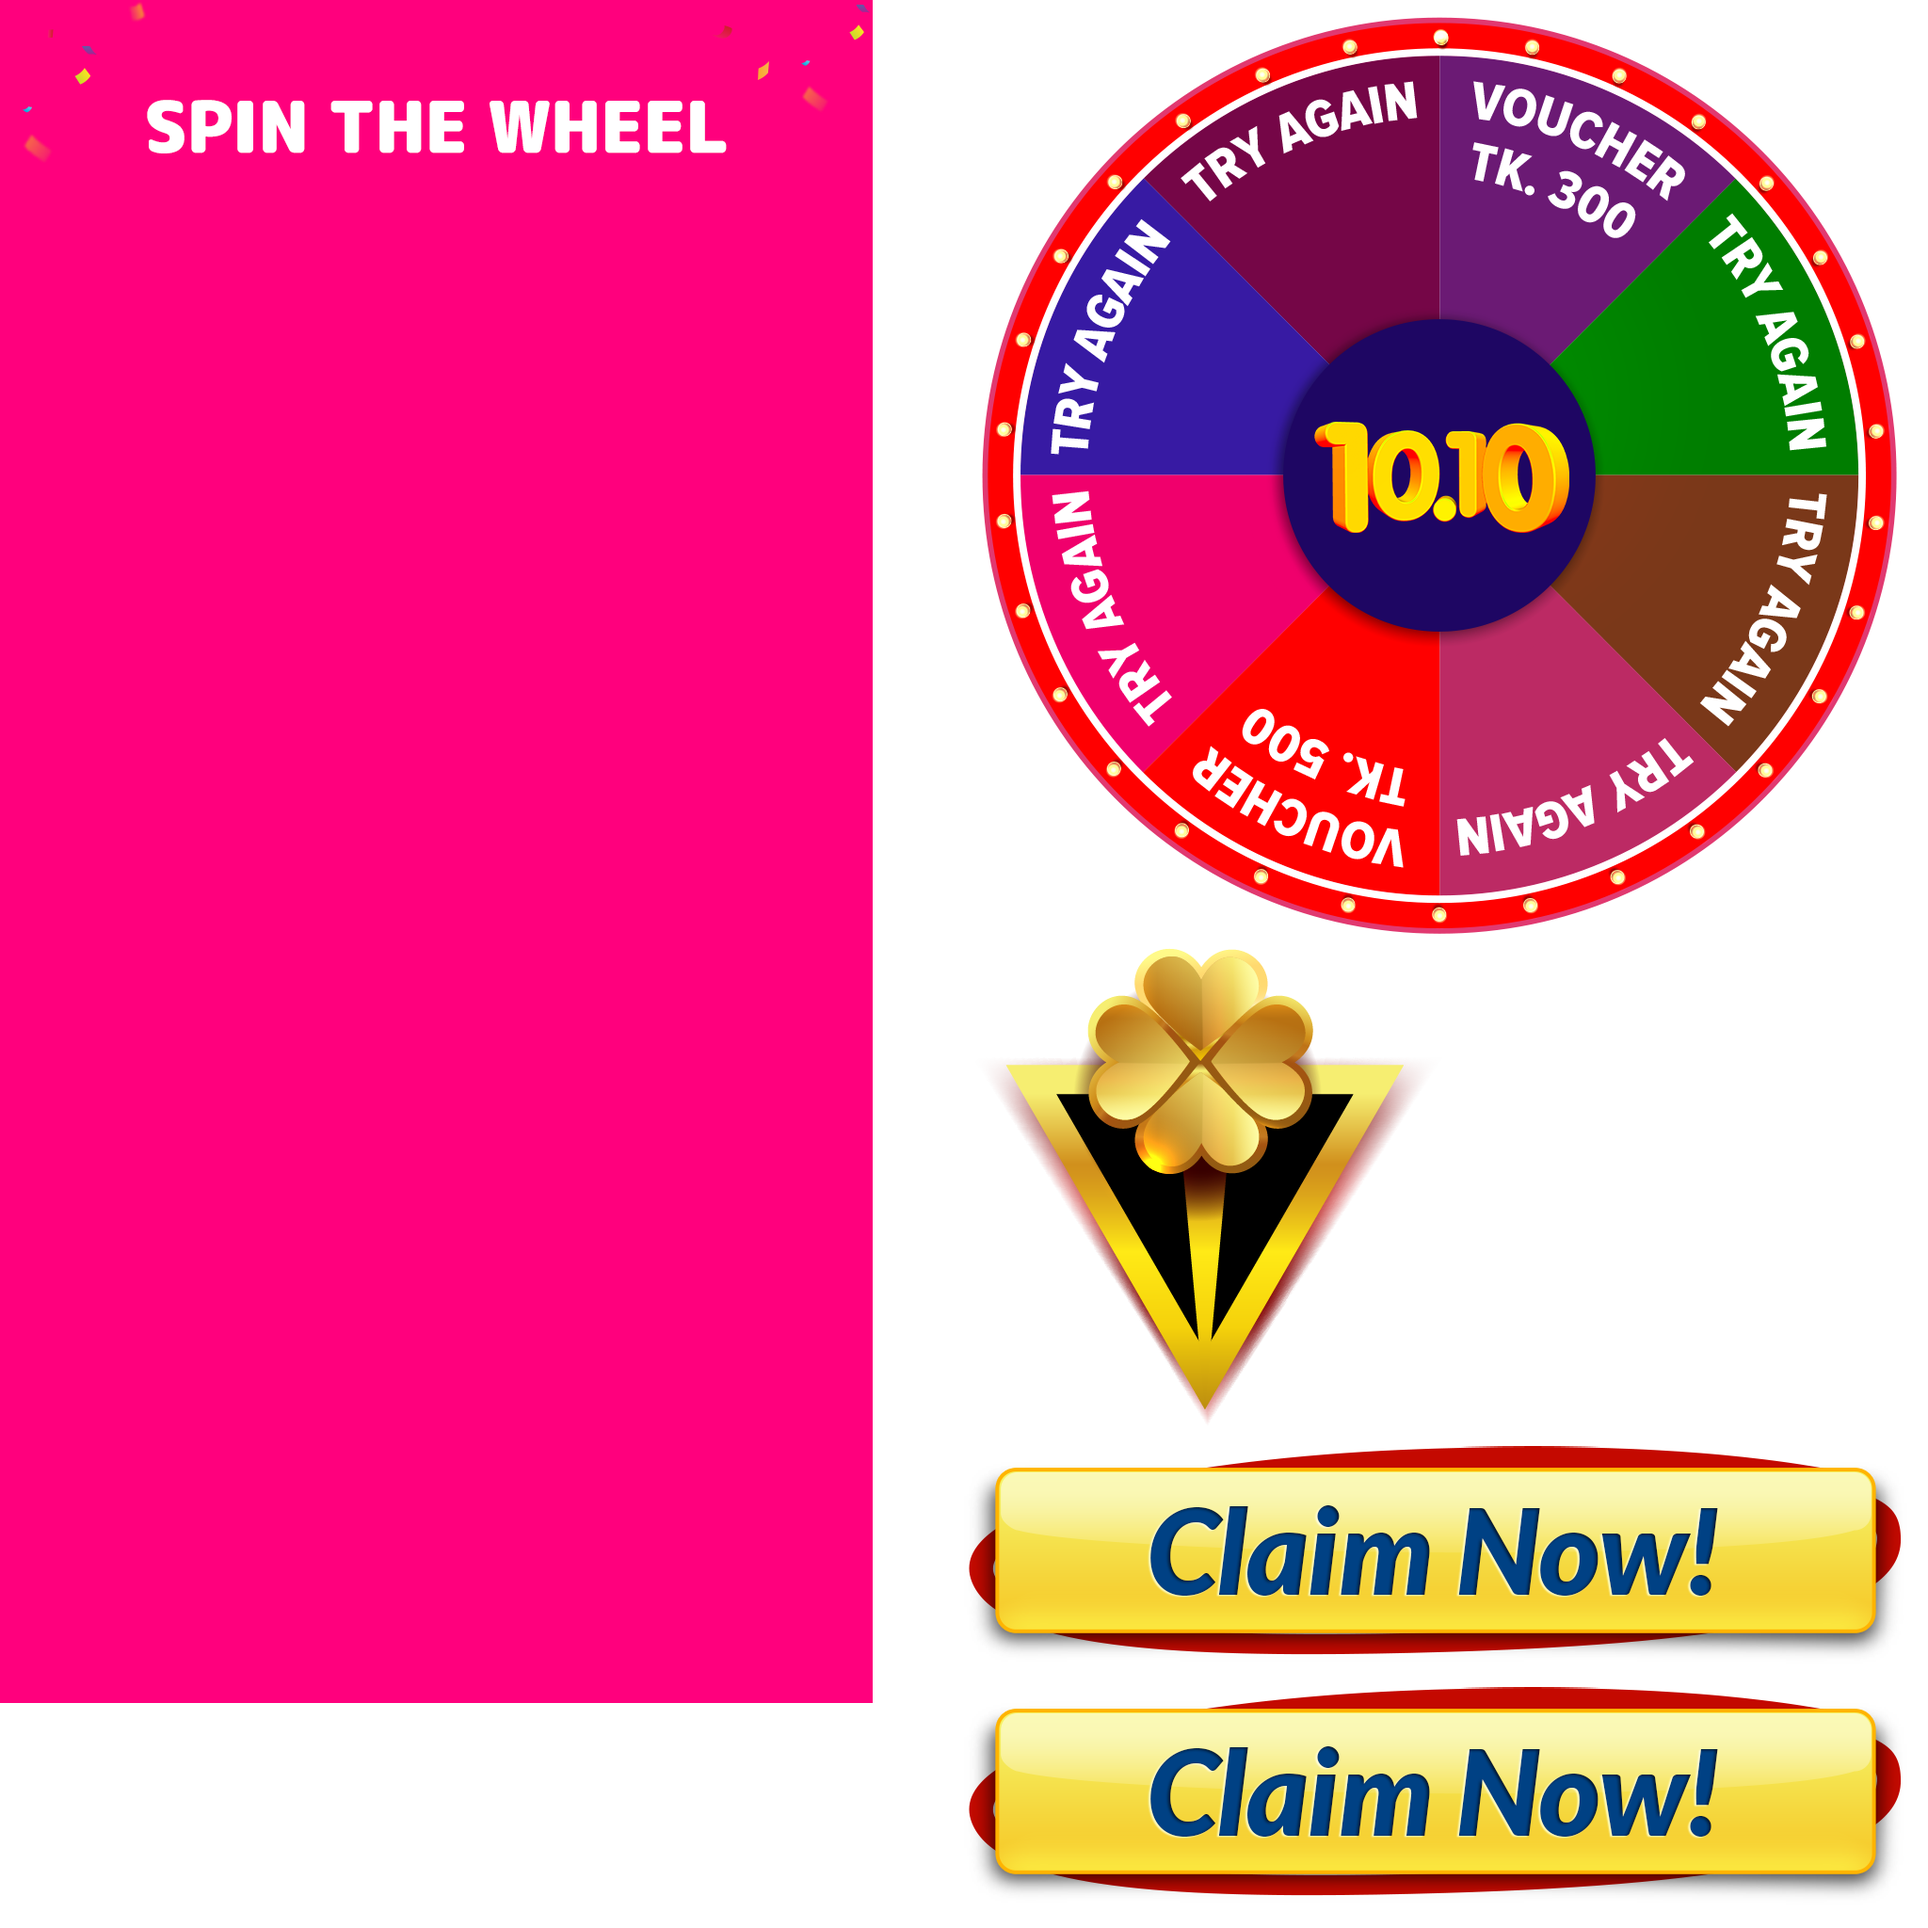
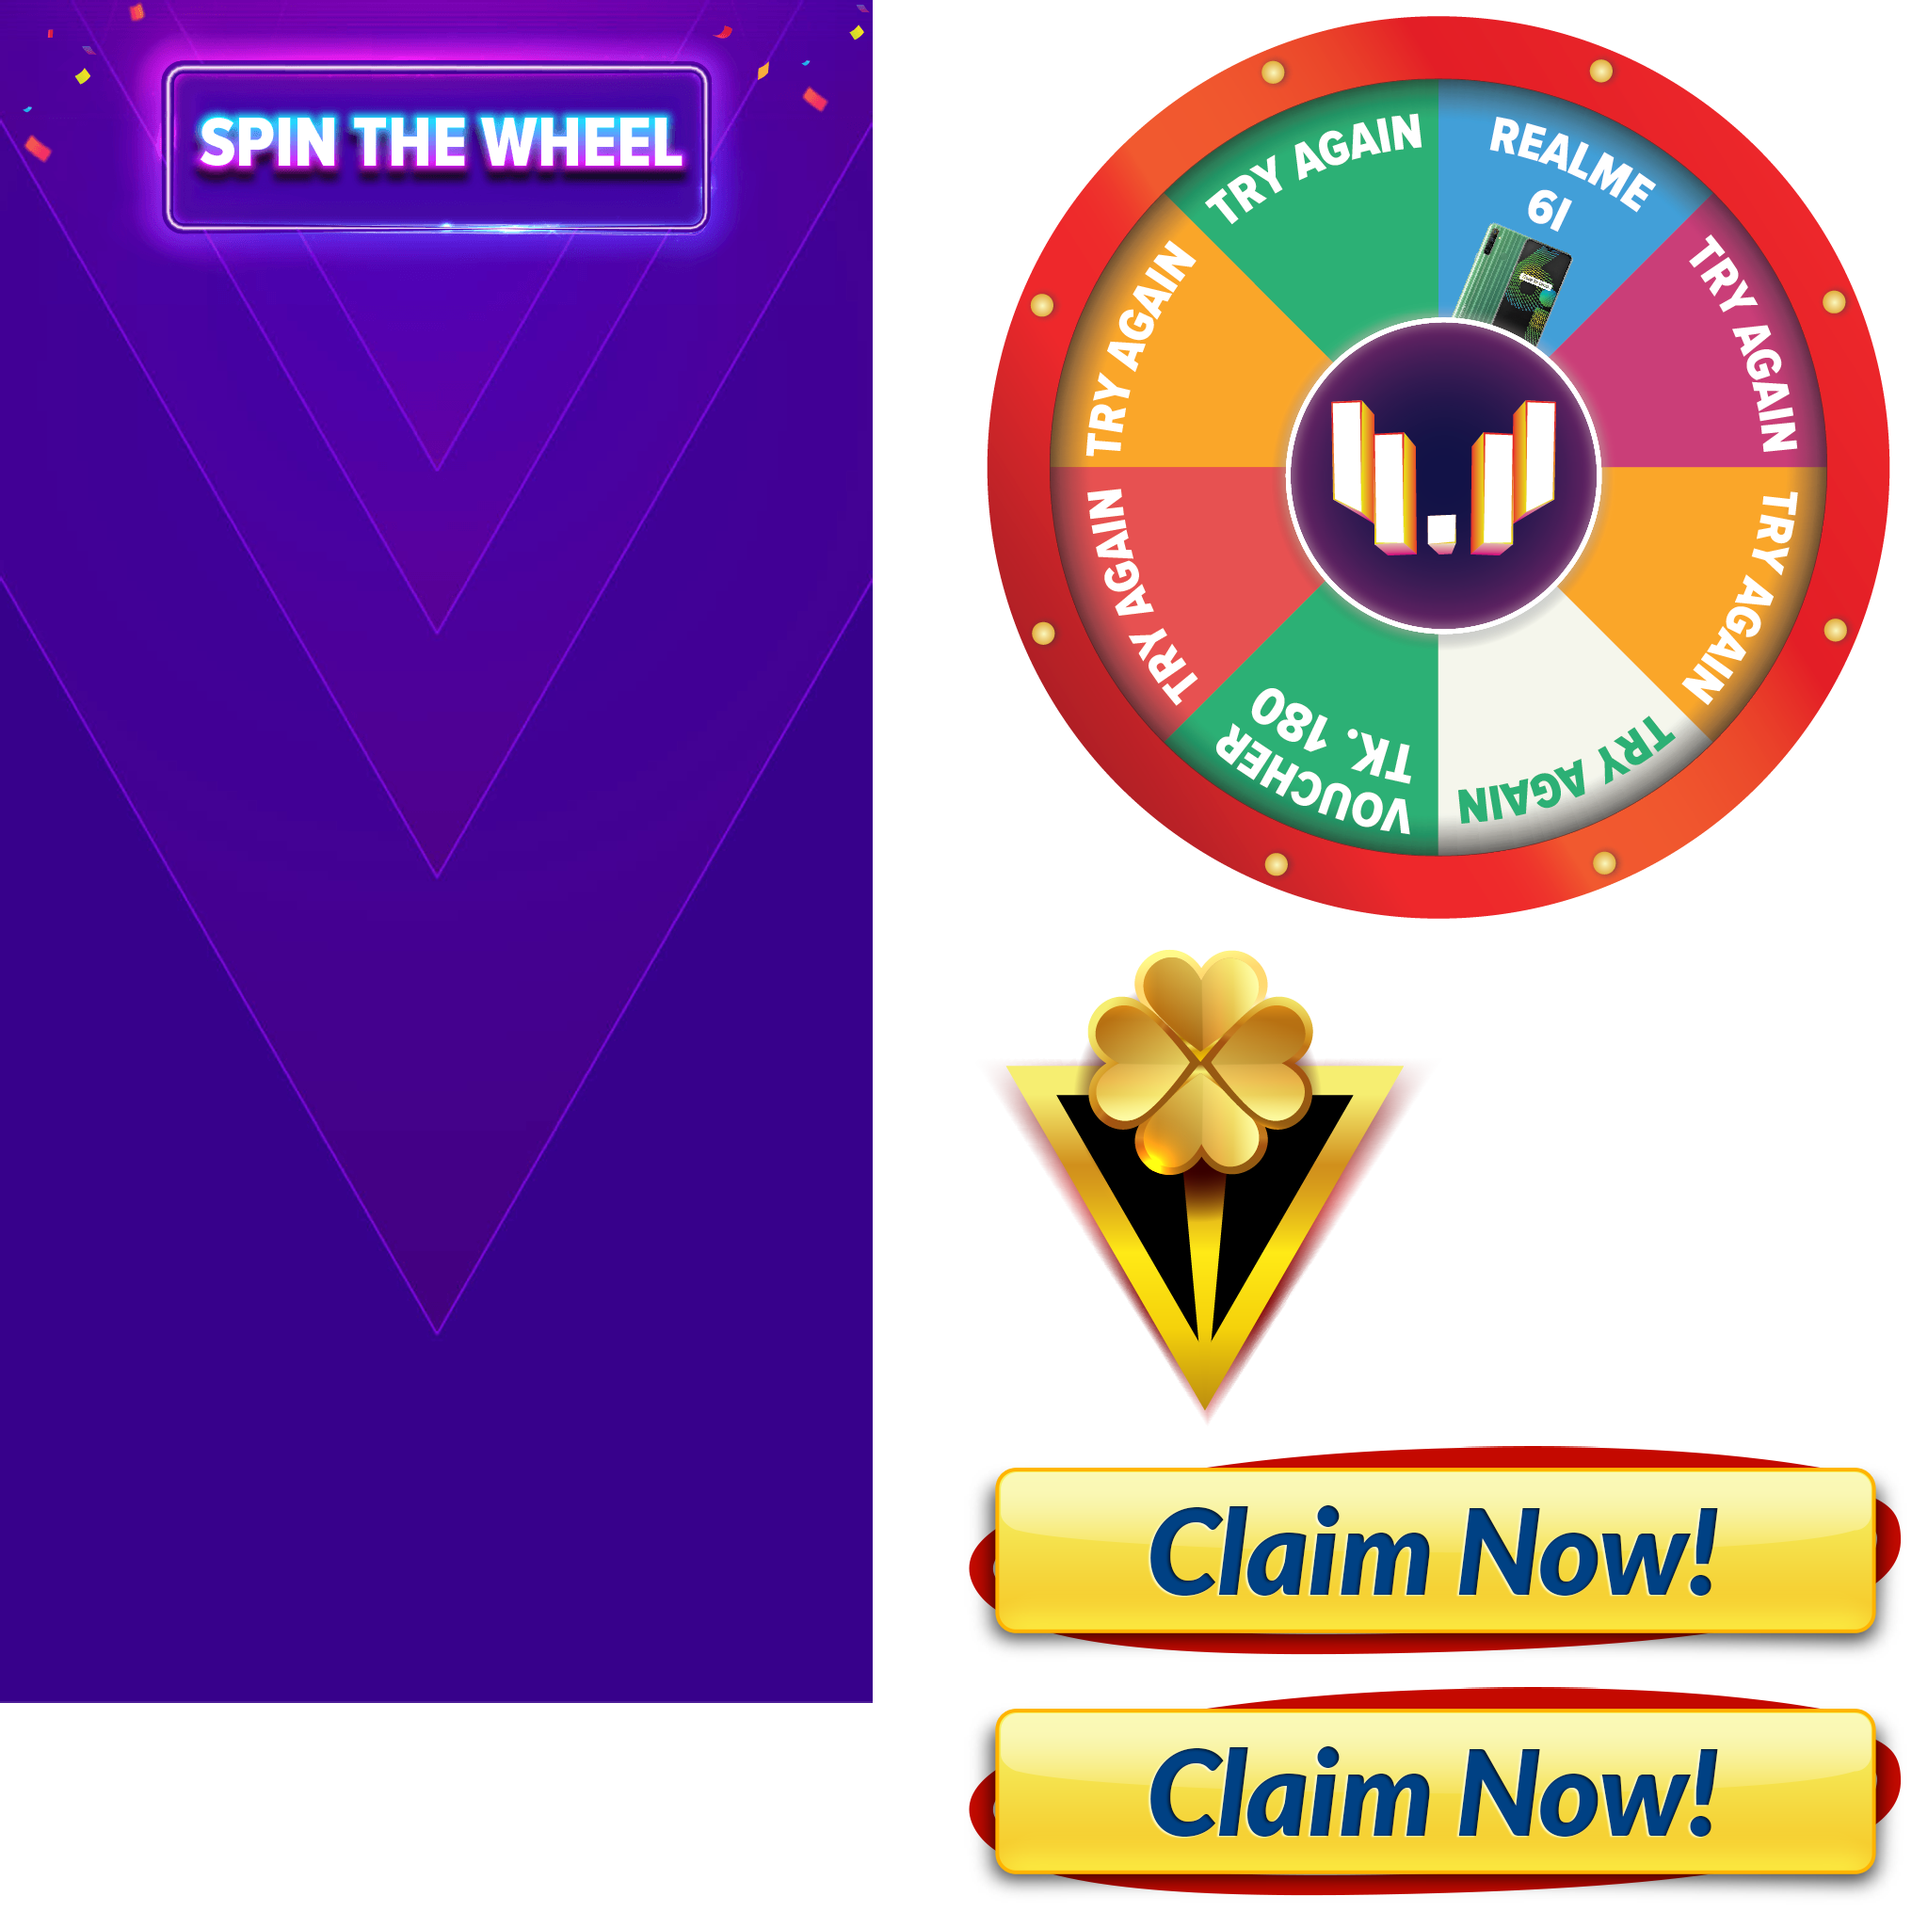
Add files via upload

diff --git a/scripts/c3runtime.js b/scripts/c3runtime.js
@@ -1698,5 +1698,5 @@ self.C3.Behaviors.Anchor.Acts={SetEnabled(f){this._isEnabled&&0===f?(this._isEna
 f.Plugins.System.Cnds.CompareBoolVar,f.Behaviors.Physics.Acts.SetAngularVelocity,f.Behaviors.Physics.Acts.SetAngularDamping,f.Plugins.Text.Acts.SetText,f.Behaviors.Physics.Exps.AngularVelocity,f.Behaviors.Physics.Exps.AngularDamping,f.Plugins.Sprite.Acts.SetPos,f.Plugins.System.Cnds.Compare,f.Plugins.System.Acts.SetVar,f.Plugins.Sprite.Exps.Angle,f.Plugins.System.Cnds.For,f.Plugins.Arr.Exps.Height,f.Plugins.System.Cnds.CompareBetween,f.Plugins.Arr.Exps.At,f.Plugins.System.Exps.loopindex,f.Plugins.System.Cnds.Else,
 f.Plugins.Browser.Acts.GoToURL,f.Plugins.System.Acts.RestartLayout,f.Plugins.System.Acts.ResetGlobals]};self.C3_JsPropNameTable=[{Physics:0},{Anchor:0},{"8SidedWheel":0},{Background:0},{SpinButton:0},{TitleText:0},{Touch:0},{Browser:0},{Pin:0},{AngularVelocity:0},{Damping:0},{Array:0},{AJAX:0},{win:0},{board:0},{ClaimButton:0},{retry:0},{Oops:0},{WheelSpinning:0},{WantResult:0},{SectionDataLoaded:0},{CurrentLoopIndex:0},{WheelAngle:0}]}"use strict";
 self.C3_ExpressionFuncs=[()=>0,f=>{const b=f._GetNode(0).GetBoundMethod();return()=>b(0,360)},()=>"sectionDataArray",f=>{const b=f._GetNode(0).GetBoundMethod();return()=>b()},f=>{const b=f._GetNode(0).GetBoundMethod();return()=>b(500,3E3)},f=>{const b=f._GetNode(0).GetBoundMethod();return()=>b(.2,.8)},f=>{const b=f._GetNode(0);return()=>b.ExpBehavior()},()=>-200,()=>419,f=>{const b=f._GetNode(0);return()=>b.ExpObject()},f=>{const b=f._GetNode(0).GetVar();return()=>b.GetValue()},()=>"",f=>{const b=
-f._GetNode(0);return()=>b.ExpObject()-1},f=>{const b=f._GetNode(0),a=f._GetNode(1).GetBoundMethod();return()=>b.ExpObject(1,a())},f=>{const b=f._GetNode(0),a=f._GetNode(1).GetBoundMethod();return()=>b.ExpObject(2,a())},()=>170.112,()=>150.604,f=>{const b=f._GetNode(0),a=f._GetNode(1).GetBoundMethod();return()=>b.ExpObject(0,a())},()=>1,()=>168.68,()=>279.87,()=>169.812,()=>376.066,()=>168.64,()=>282.988,()=>169.254,()=>383.949,()=>"Collect",f=>{const b=f._GetNode(0),a=f._GetNode(1).GetVar();return()=>
-b.ExpObject(3,a.GetValue())},()=>"Retry"];"use strict";self.C3.ScriptsInEvents={};
+f._GetNode(0);return()=>b.ExpObject()-1},f=>{const b=f._GetNode(0),a=f._GetNode(1).GetBoundMethod();return()=>b.ExpObject(1,a())},f=>{const b=f._GetNode(0),a=f._GetNode(1).GetBoundMethod();return()=>b.ExpObject(2,a())},()=>168,()=>190,f=>{const b=f._GetNode(0),a=f._GetNode(1).GetBoundMethod();return()=>b.ExpObject(0,a())},()=>1,()=>169,()=>261,()=>166,()=>362,()=>361,()=>"Collect",f=>{const b=f._GetNode(0),a=f._GetNode(1).GetVar();return()=>b.ExpObject(3,a.GetValue())},()=>"Retry"];"use strict";
+self.C3.ScriptsInEvents={};

diff --git a/style.css b/style.css
@@ -3,7 +3,7 @@ html, body {
 	margin: 0;
 	overflow: hidden;
 	
-	background: #ff2d7e;
+	background: #38108b;
 	color: white;
 }
 
